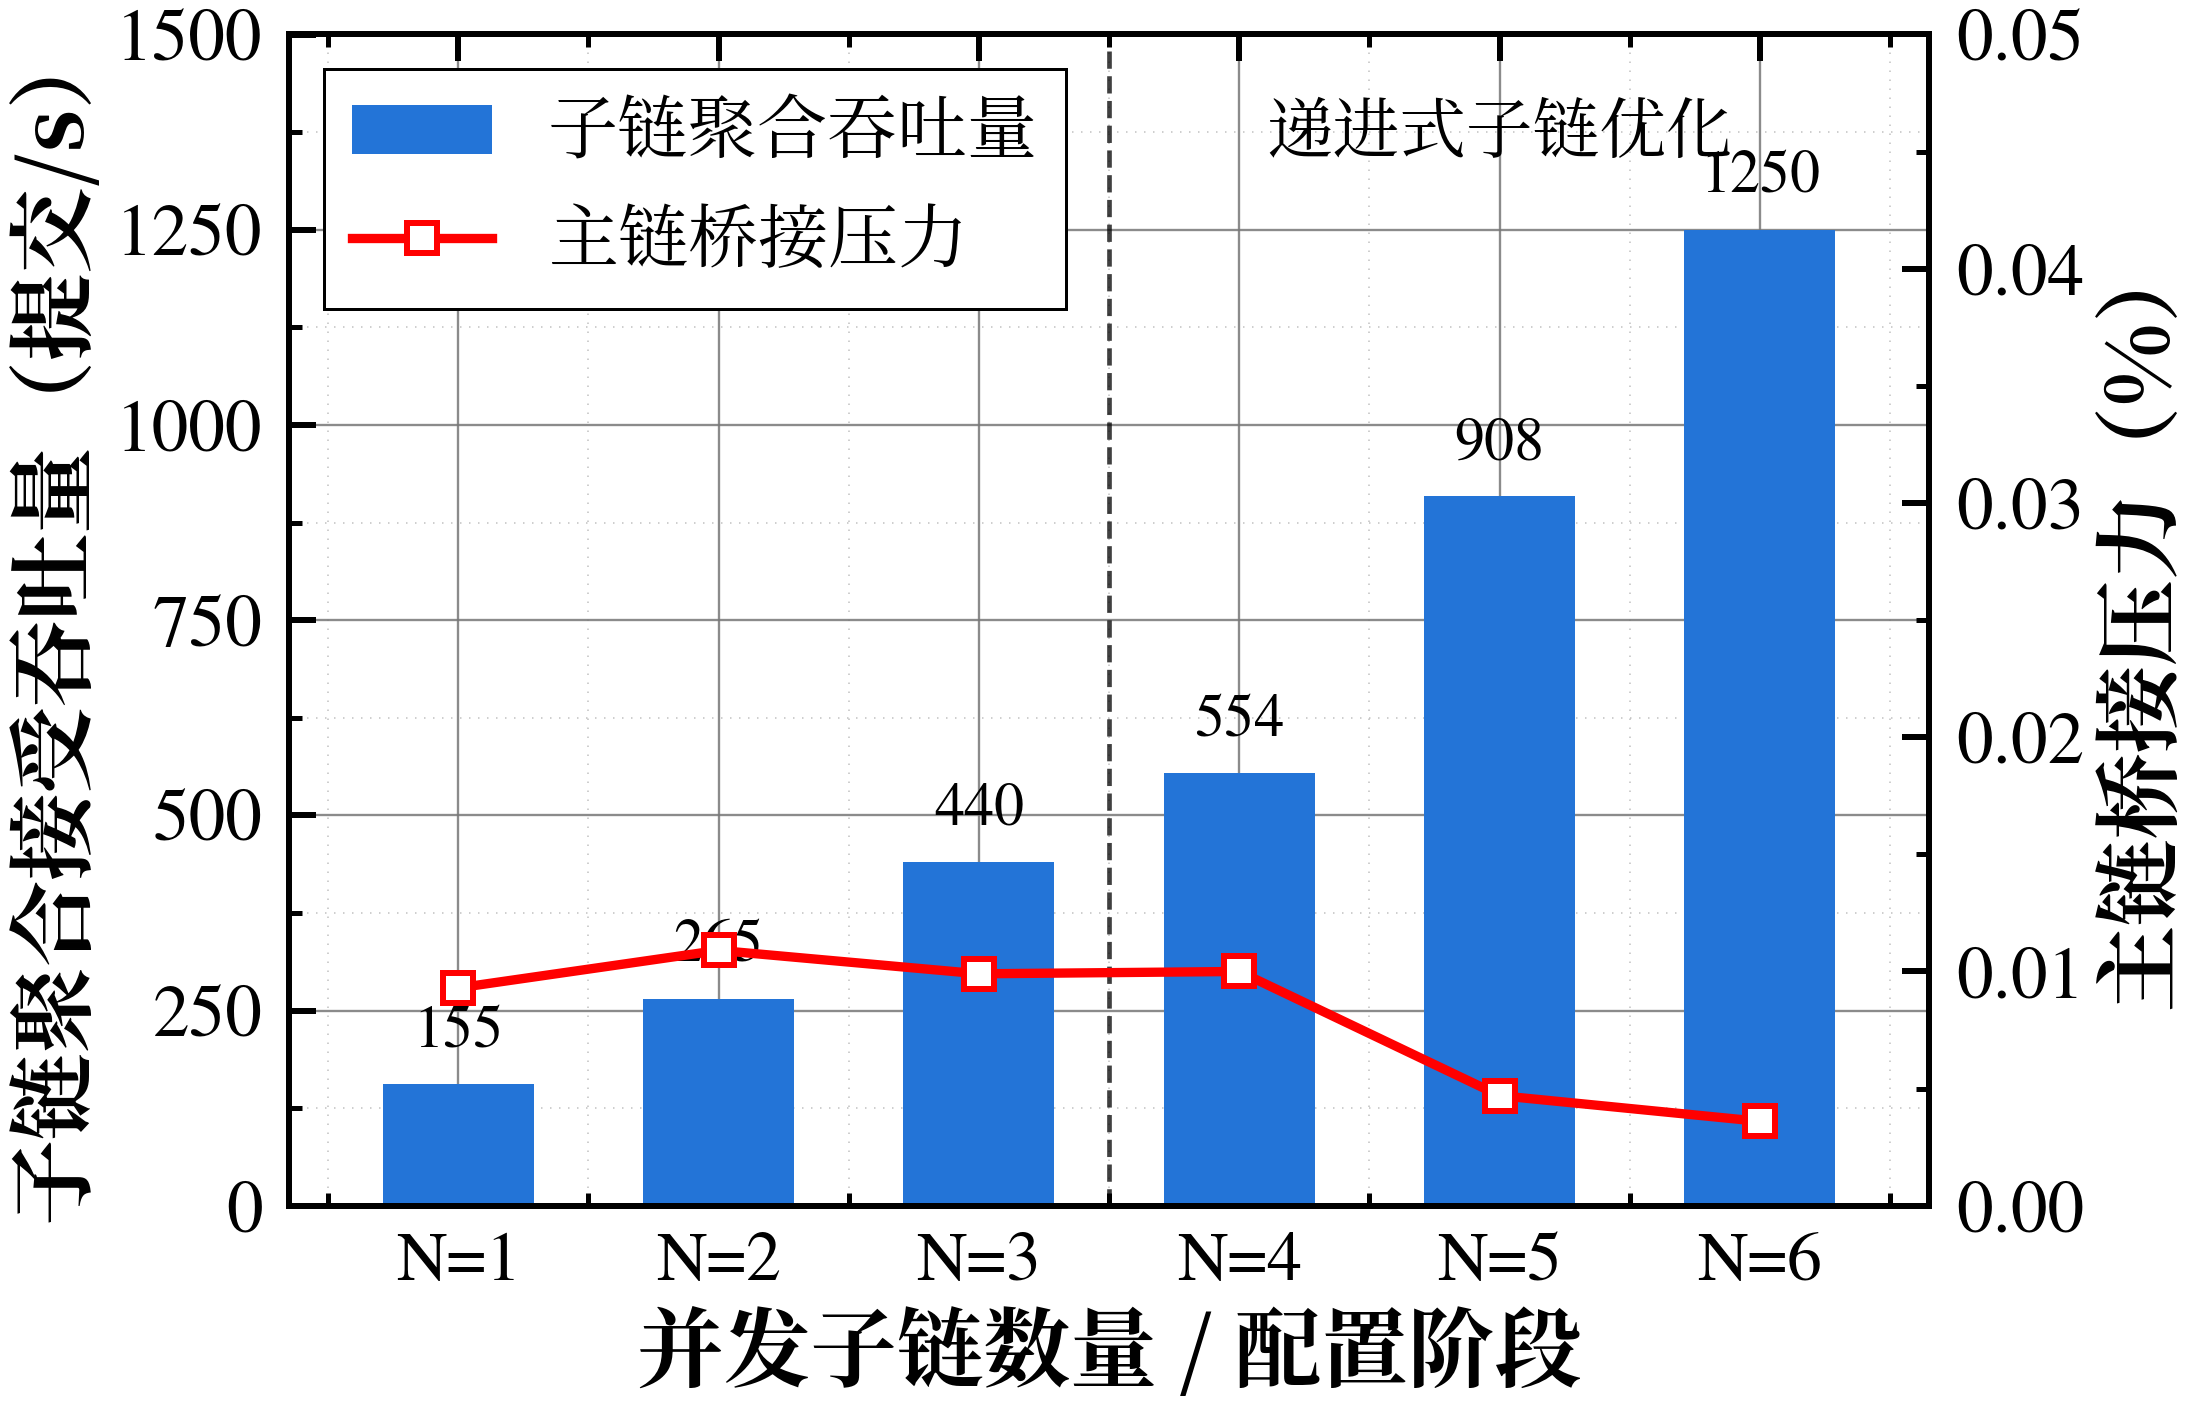
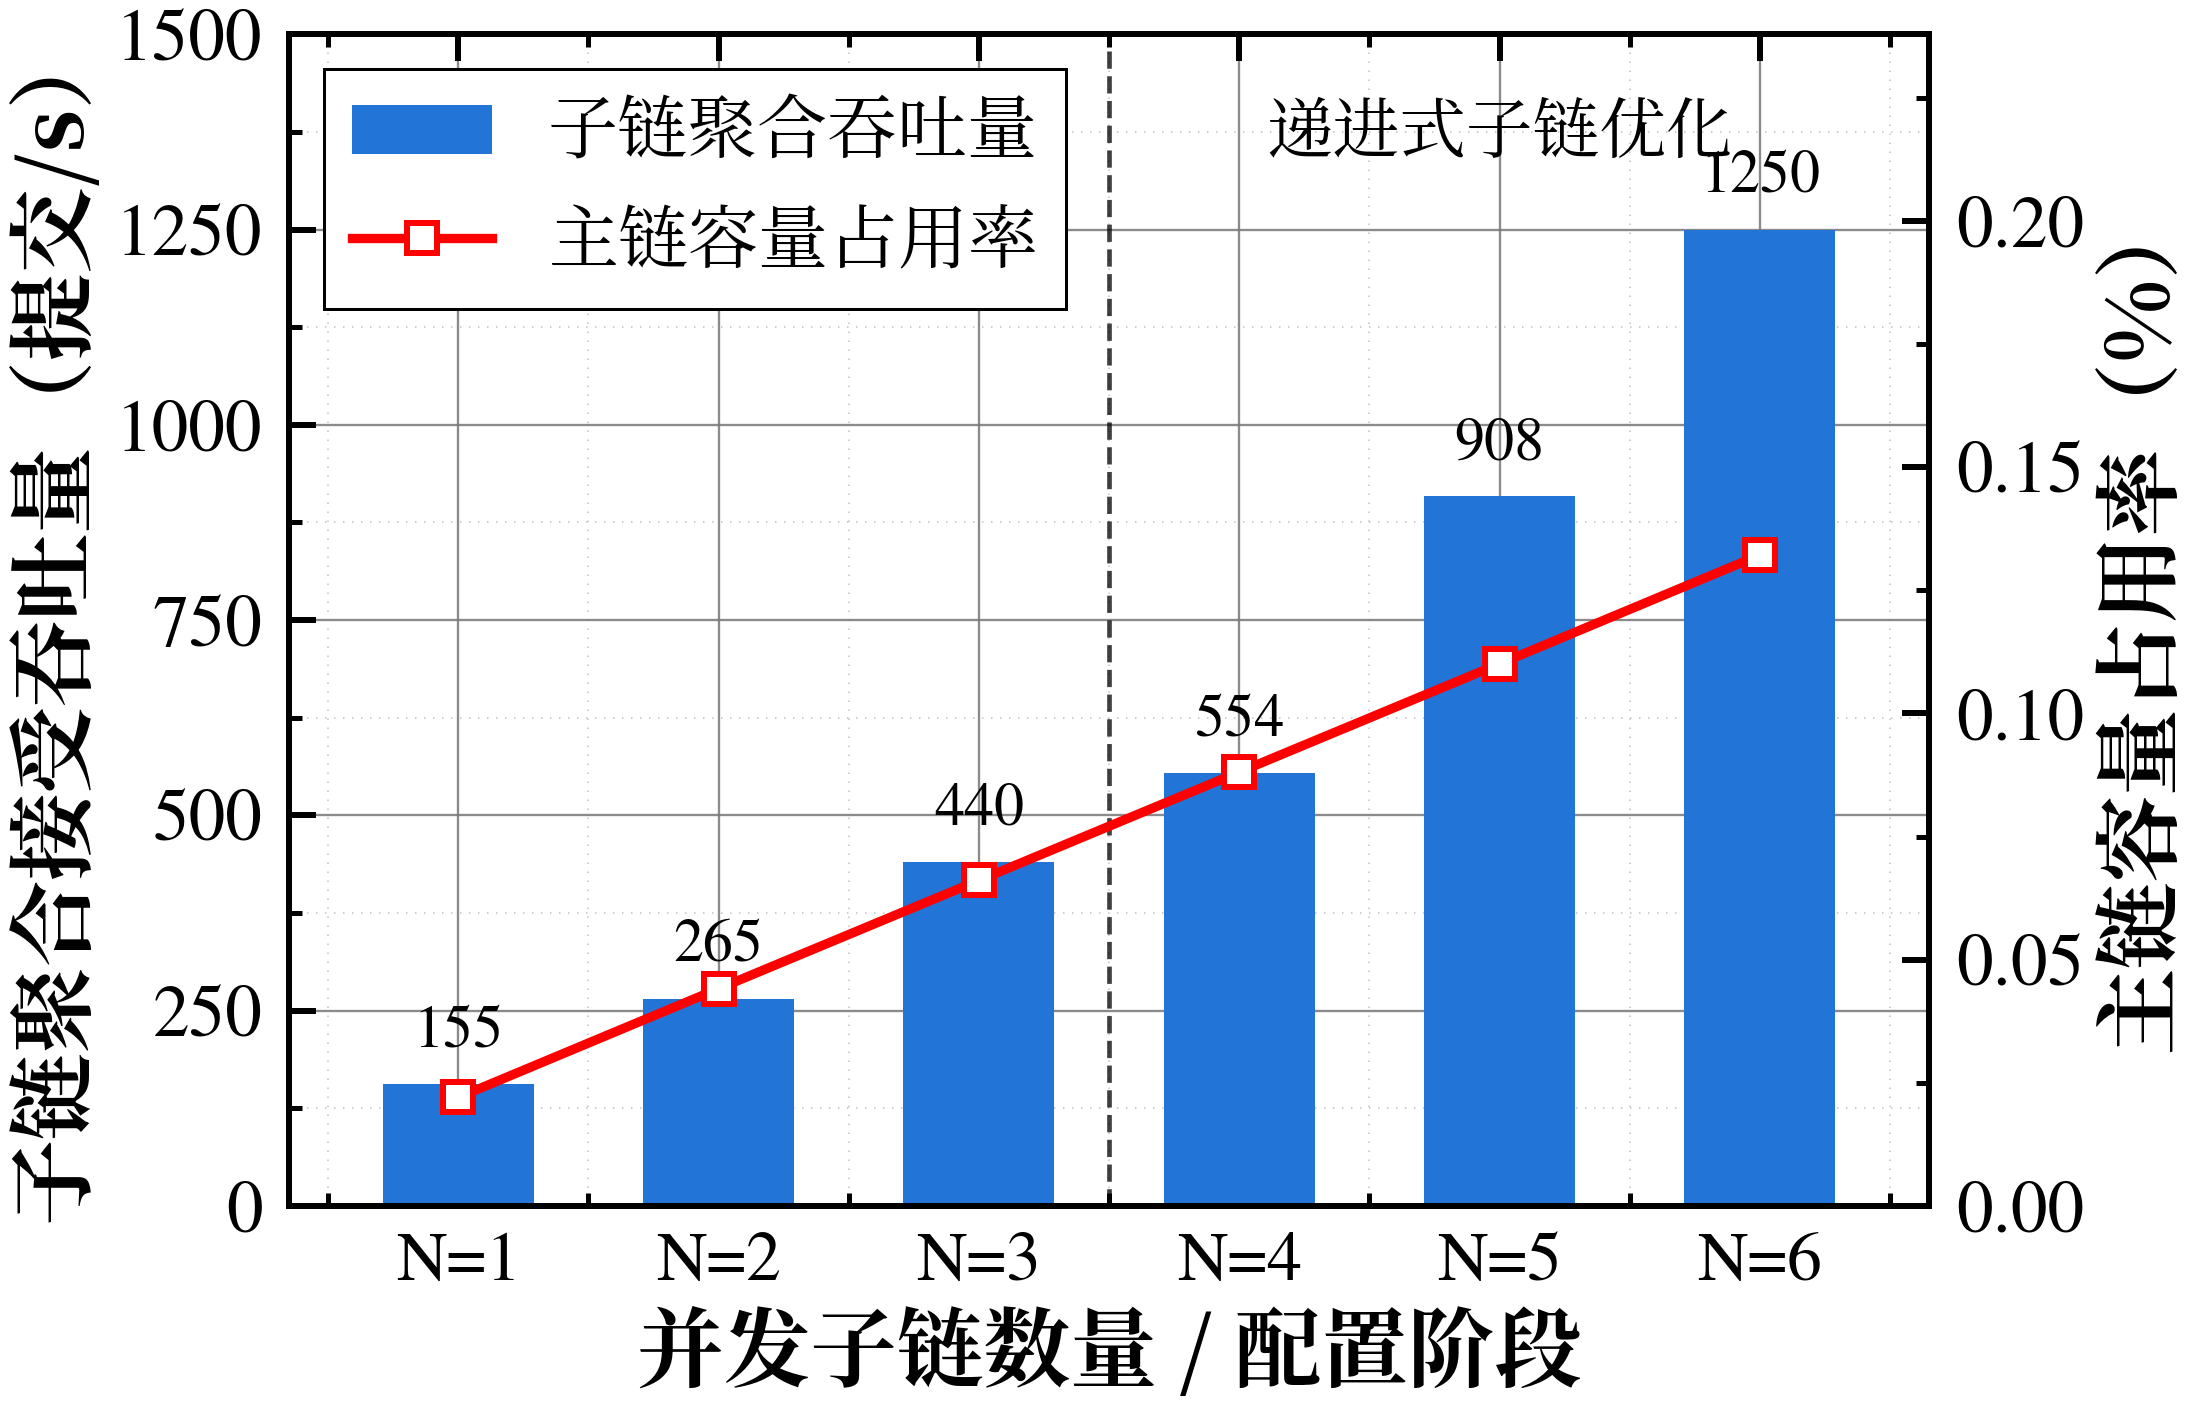
test: record mainchain capacity occupancy result

diff --git a/docs/experiments/progressive_tps/mainchain_capacity_occupancy_plan.md b/docs/experiments/progressive_tps/mainchain_capacity_occupancy_plan.md
@@ -71,8 +71,8 @@ Create `scripts/mainchain_transfer_burst.js` with:
 
 Required behavior:
 
-- Parse `--ws`, `--senders`, `--parallel-per-sender`, `--duration`, `--amount`, `--fund-amount`, `--sender-offset`, `--submit-mode`, `--report-interval`, `--tx-timeout`, and `--out`.
-- Build senders from `//MainBenchSender${offset + i}` and receivers from `//MainBenchReceiver${offset + i}`.
+- Parse `--ws`, `--senders`, `--parallel-per-sender`, `--duration`, `--amount`, `--fund-amount`, `--sender-offset`, `--receiver-mode`, `--submit-mode`, `--report-interval`, `--tx-timeout`, and `--out`.
+- Build senders from `//MainBenchSender${offset + i}`. Use Alice as the receiver when `--receiver-mode alice`; otherwise build paired receivers from `//MainBenchReceiver${offset + i}`.
 - If sender free balance is below `fundAmount / 2`, fund it from `//Alice` before measurement.
 - Submit `balances.transferAllowDeath(receiver, amount)` if available, otherwise fall back to `balances.transfer(receiver, amount)`.
 - In `watch` mode count only `status.isInBlock` with no dispatch error as `ok`.
@@ -223,14 +223,18 @@ Use the 18-validator mainchain endpoint:
 ```bash
 MAIN_WS=ws://10.2.2.11:9944 node scripts/mainchain_transfer_burst.js \
   --ws ws://10.2.2.11:9944 \
-  --senders 300 \
-  --parallel-per-sender 1 \
+  --senders 113 \
+  --sender-offset 0 \
+  --parallel-per-sender 4 \
   --duration 120 \
+  --amount 1 \
+  --fund-amount 1000000000000 \
+  --receiver-mode alice \
   --submit-mode watch \
   --out docs/experiments/progressive_tps/mainchain_capacity/mainchain_transfer_burst_summary.json
 ```
 
-Record the measured `mainchainMaxTps`.
+This command uses the first 113 already-funded deterministic benchmark senders and transfers to the existing Alice account to avoid receiver existential-deposit effects. Record the measured `mainchainMaxTps`; the 2026-06-20 run measured `75.6638 TPS` with `9341/9341` successful in-block transfers.
 
 - [ ] **Step 2: Regenerate progressive summary with measured capacity**
 